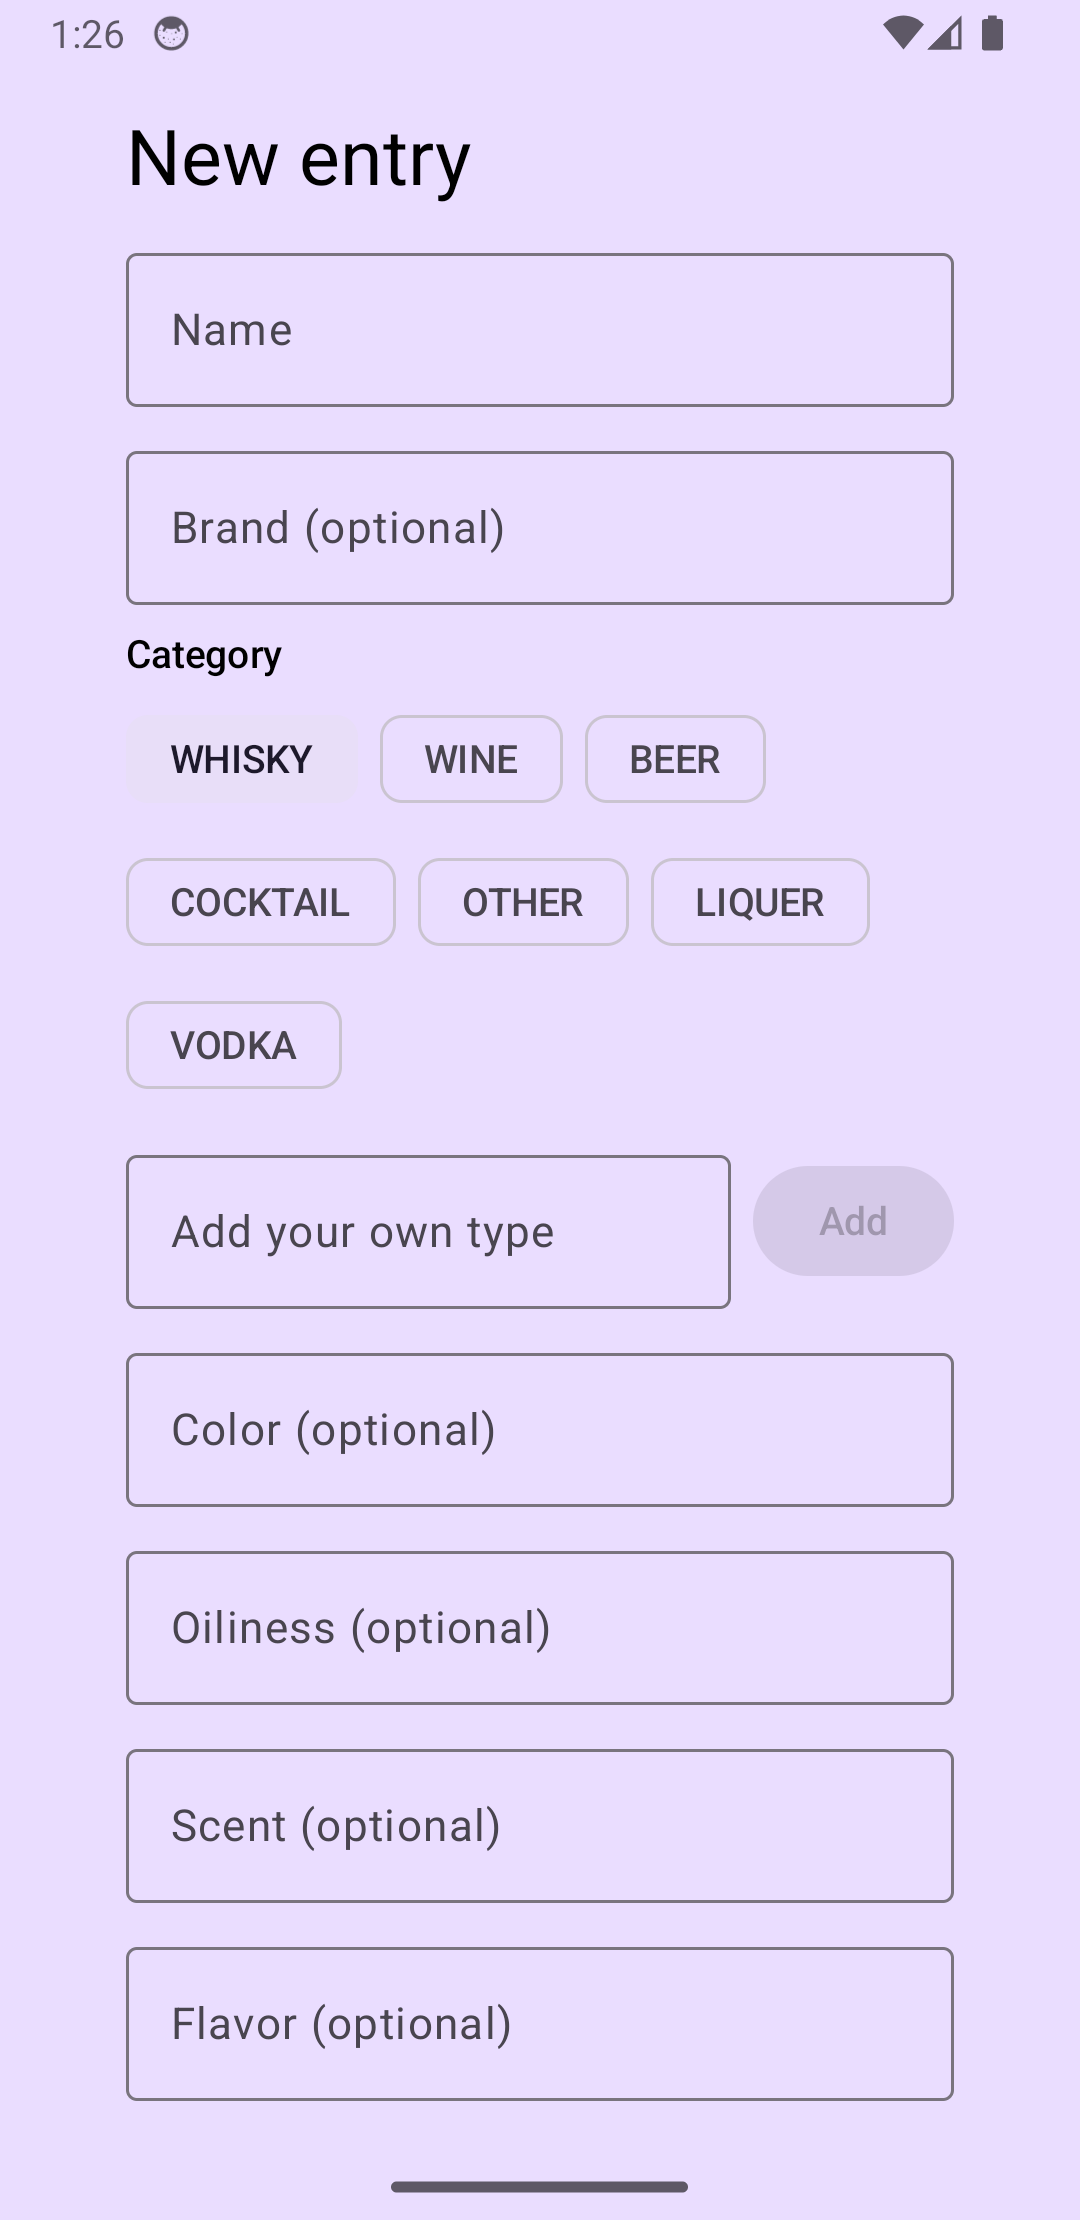
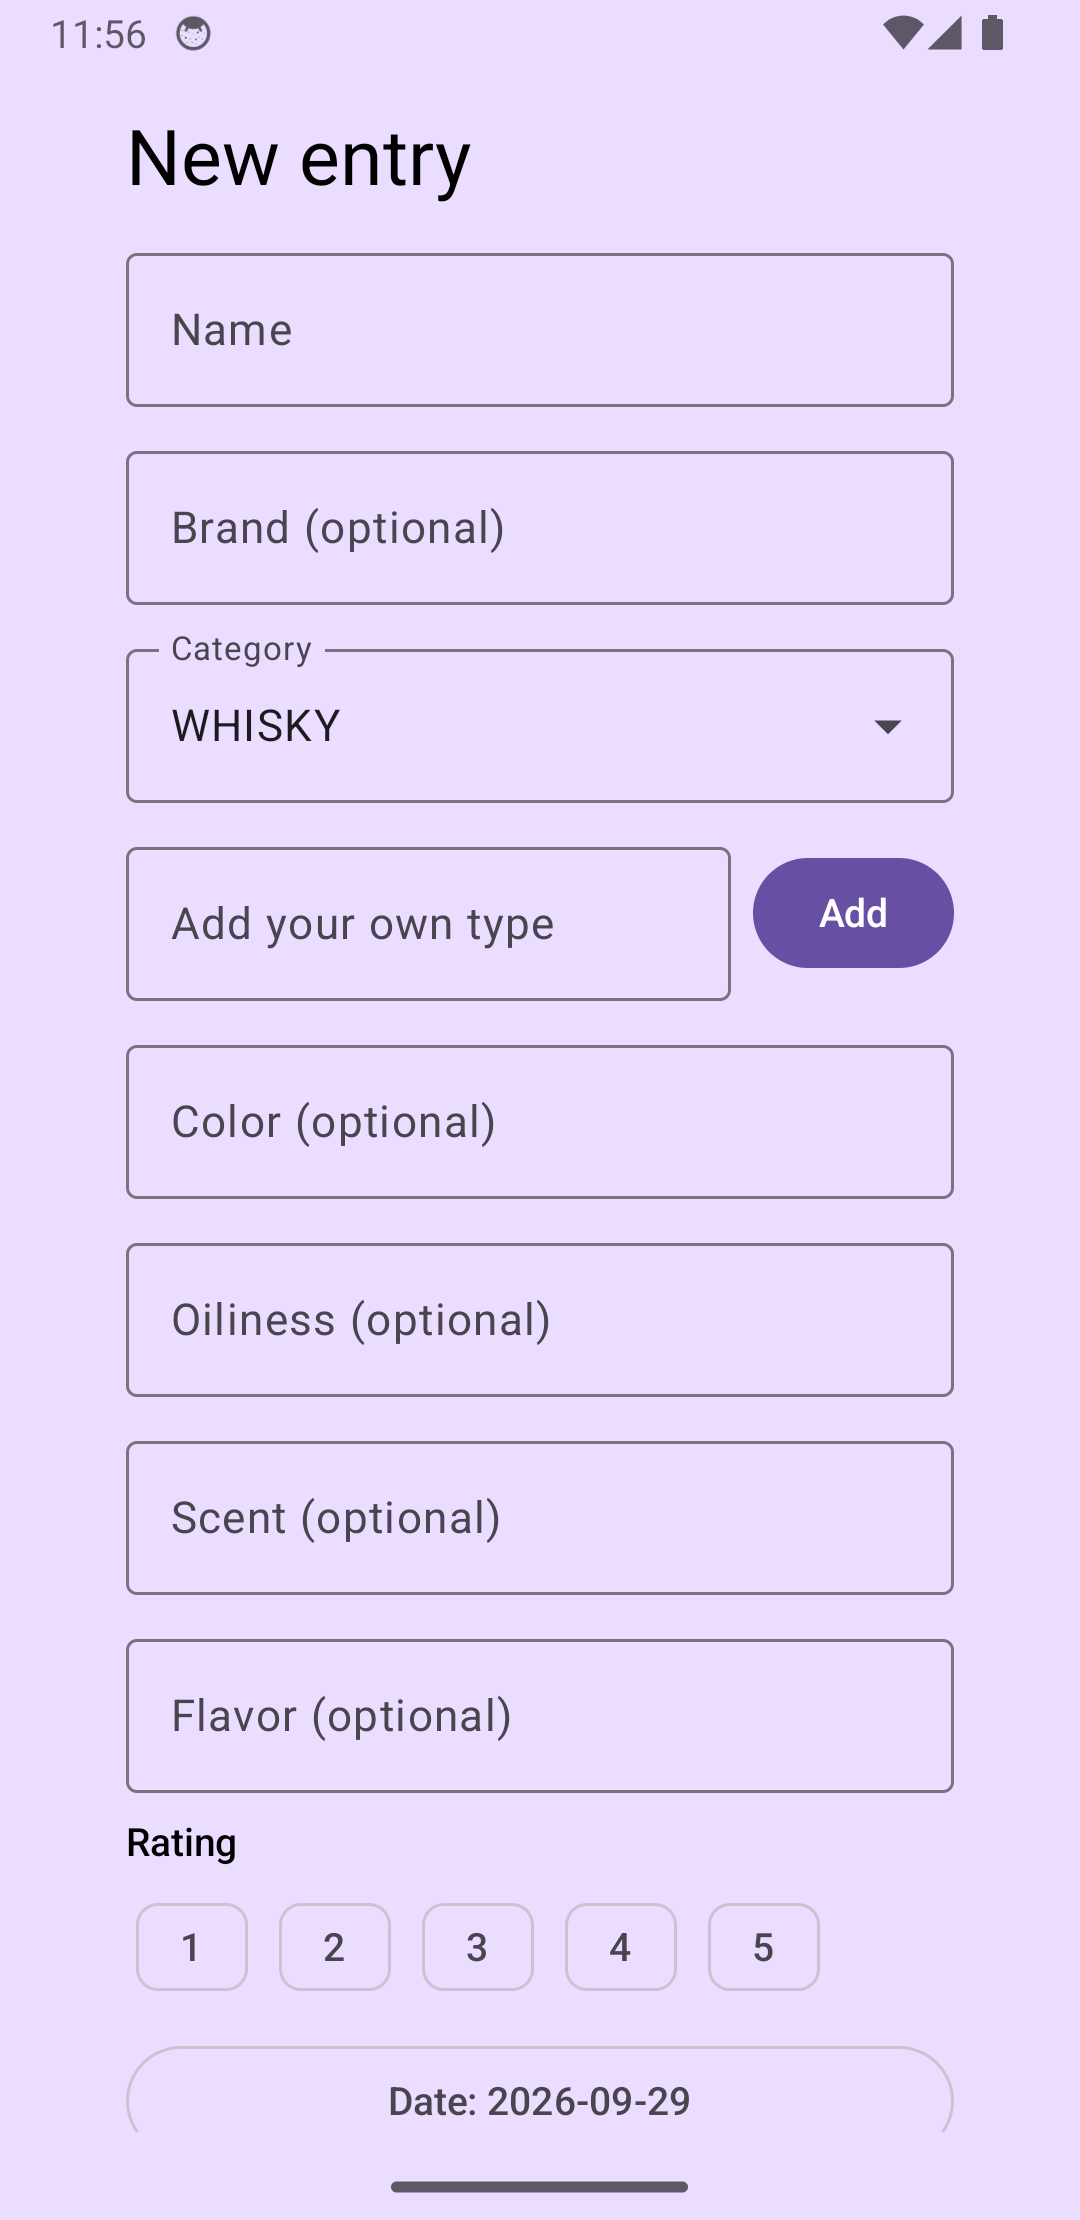
update file README

diff --git a/README.md b/README.md
@@ -2,18 +2,25 @@
 
 A personal tasting log for alcoholic drinks, built as a Kotlin Multiplatform (KMP) learning project. It tracks what you've tried, when, and how it tasted — no backend, no account, everything stored locally on-device with Room.
 
-| List screen | Edit/Add screen |
+| List screen | Filters drawer |
 |---|---|
-| ![List screen](screenshots/list.png) | ![Edit/Add screen](screenshots/edit.png) |
+| ![List screen](screenshots/list.png) | ![Filters drawer](screenshots/drawer.png) |
+
+| Edit/Add screen | Manage your types |
+|---|---|
+| ![Edit/Add screen](screenshots/edit.png) | ![Manage your types](screenshots/manage.png) |
 
 ## Features
 
 - Add, edit, and delete tasting entries
 - Fields: name, brand, type (category), color, oiliness, scent, flavor, rating (1–5), date tasted, notes
-- **User-defined types**: the built-in categories (Whisky, Wine, Beer, Cocktail, Other) are just defaults — you can add your own from the edit screen, and it's remembered from then on
+- Simple validation on required fields (name, rating) — inline "can't be empty" errors instead of a disabled button
+- Confirmation dialogs before anything destructive (deleting an entry, deleting a type, discarding an unsaved edit), with the destructive action styled in red
+- **User-defined types**: the built-in categories (Whisky, Wine, Beer, Cocktail, Other) are just defaults — add your own from the edit screen, then rename or delete them later from the dedicated "Manage your types" screen (deleting one reassigns its entries to Other)
+- Category selection is a dropdown, both when filtering and when editing an entry
 - Search by name or type
-- Filter by category
-- Sort by newest, name, or rating
+- Filter by category and sort by newest, name, or rating from a pull-out filters drawer
+- **English/Polish UI toggle**, switchable at the top of the filters drawer (resets to English on app restart — not persisted)
 - All data persists locally via Room (SQLite) — nothing leaves the device
 
 ## Platforms
@@ -29,7 +36,7 @@ A personal tasting log for alcoholic drinks, built as a Kotlin Multiplatform (KM
 - **Kotlin Multiplatform** + **Compose Multiplatform** — shared UI across Android/Desktop/iOS
 - **Room** (with the `androidx.sqlite` bundled SQLite driver) — local persistence, with tested schema migrations
 - **Koin** — dependency injection
-- **Navigation Compose** (JetBrains multiplatform port) — list ↔ edit screen navigation
+- **Navigation Compose** (JetBrains multiplatform port) — list ↔ edit ↔ manage-types screen navigation
 - **Koin + kotlinx-coroutines + kotlinx-datetime** — the rest of the shared logic layer
 
 ## Project structure
@@ -37,7 +44,7 @@ A personal tasting log for alcoholic drinks, built as a Kotlin Multiplatform (KM
 - [`/shared`](./shared/src) — all shared code (KMP)
   - [`commonMain`](./shared/src/commonMain/kotlin) — UI (Compose), ViewModel, repositories, Room entities/DAOs/migrations, DI module — the vast majority of the app
   - [`androidMain`](./shared/src/androidMain/kotlin) / [`iosMain`](./shared/src/iosMain/kotlin) / [`jvmMain`](./shared/src/jvmMain/kotlin) — platform-specific pieces only (the Room database driver setup per platform)
-  - `commonTest` / `jvmTest` — unit tests, DAO tests, and migration tests (37 tests total)
+  - `commonTest` / `jvmTest` — unit tests, DAO tests, and migration tests (48 tests total)
 - [`/androidApp`](./androidApp/src/main) — Android application shell (`MainActivity`, manifest, launcher icon)
 - [`/desktopApp`](./desktopApp/src/main) — Desktop application shell (`main()`)
 - [`/iosApp`](./iosApp/iosApp) — iOS application shell (SwiftUI entry point)
@@ -46,9 +53,10 @@ A personal tasting log for alcoholic drinks, built as a Kotlin Multiplatform (KM
 
 A pragmatic layered approach, not a full Clean Architecture setup:
 
-- **UI** (`ListScreen.kt`, `EditScreen.kt`) → **`TastingViewModel`** → **Repositories** (`TastedDrinkRepository`, `CategoryRepository`) → **Room DAOs**
+- **UI** (`ListScreen.kt`, `EditScreen.kt`, `ManageCategoriesScreen.kt`) → **`TastingViewModel`** → **Repositories** (`TastedDrinkRepository`, `CategoryRepository`) → **Room DAOs**
 - Repositories are interfaces with a Room-backed implementation, injected via Koin — swappable for tests (see `FakeTastedDrinkRepository` / `FakeCategoryRepository` in the test suite)
 - Filtering and sorting happen in-memory in the ViewModel as small, independently unit-tested pure functions (`EntryFilter.kt`, `EntrySort.kt`), rather than as Room queries — the dataset is small, and this keeps that logic trivially testable
+- UI text is centralized in `Strings.kt` (plain Kotlin objects per language, not Compose resources) and swapped at runtime via a `StateFlow<AppLanguage>` in the ViewModel
 - Schema changes go through real Room `Migration`s, each verified with `androidx.room.testing.MigrationTestHelper` against a real (in-memory) database
 
 ## Getting started
